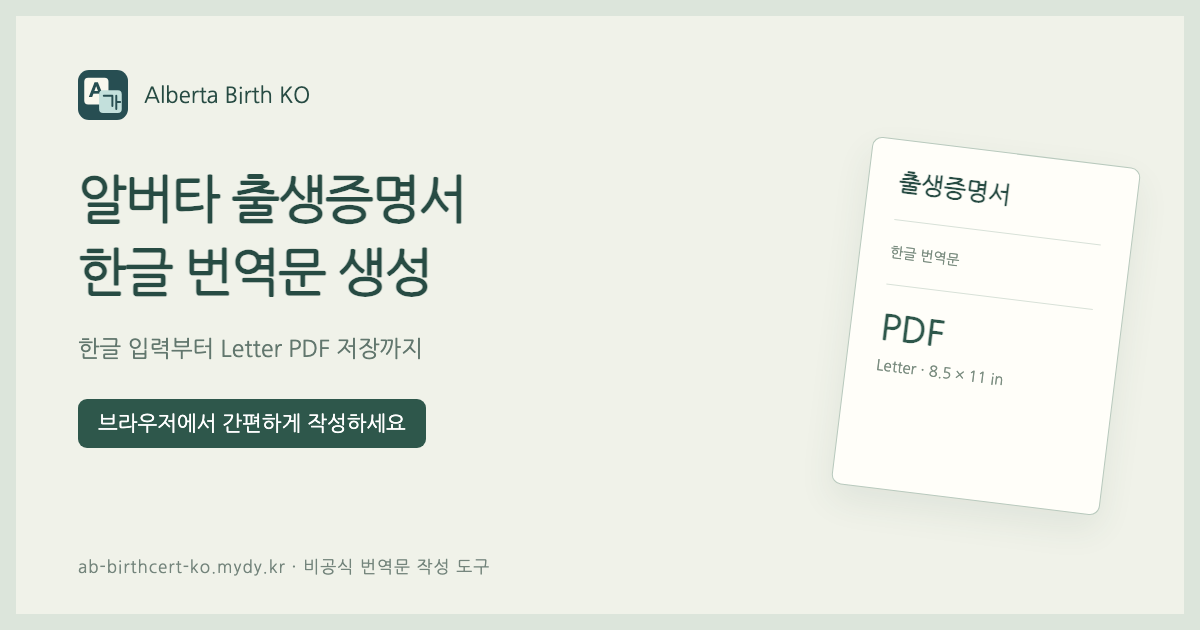
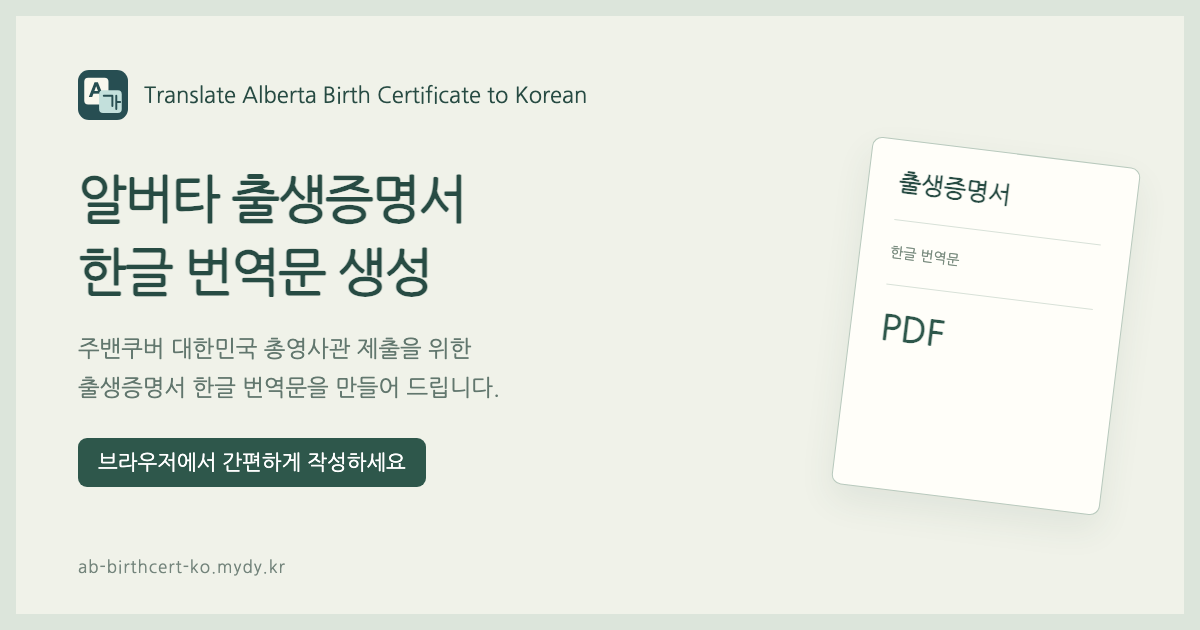
Update share thumbnail title and consulate submission copy

diff --git a/index.html b/index.html
@@ -19,12 +19,12 @@
   <meta property="og:image:type" content="image/png">
   <meta property="og:image:width" content="1200">
   <meta property="og:image:height" content="630">
-  <meta property="og:image:alt" content="알버타 출생증명서 한글 번역문 생성 — 한글 입력부터 Letter PDF 저장까지">
+  <meta property="og:image:alt" content="알버타 출생증명서 한글 번역문 생성 — 주밴쿠버 대한민국 총영사관 제출용">
   <meta name="twitter:card" content="summary_large_image">
   <meta name="twitter:title" content="알버타 출생증명서 한글 번역문 PDF 생성">
   <meta name="twitter:description" content="한글 입력부터 Letter PDF 저장까지. 알버타 출생증명서 번역문을 브라우저에서 작성하세요.">
   <meta name="twitter:image" content="https://ab-birthcert-ko.mydy.kr/og-image.png">
-  <meta name="twitter:image:alt" content="알버타 출생증명서 한글 번역문 생성 — 한글 입력부터 Letter PDF 저장까지">
+  <meta name="twitter:image:alt" content="알버타 출생증명서 한글 번역문 생성 — 주밴쿠버 대한민국 총영사관 제출용">
   <script type="application/ld+json">
   {"@context":"https://schema.org","@type":"WebApplication","name":"알버타 출생증명서 한글 번역문 생성","alternateName":"Alberta Birth KO","url":"https://ab-birthcert-ko.mydy.kr/","description":"캐나다 알버타 출생증명서의 한글 번역문을 작성하고 Letter PDF로 저장하는 비공식 웹 도구입니다.","applicationCategory":"UtilitiesApplication","operatingSystem":"Any","inLanguage":"ko","browserRequirements":"Requires JavaScript","image":"https://ab-birthcert-ko.mydy.kr/og-image.png","author":{"@type":"Person","name":"Daeyeol Ryu","url":"https://yoobato.com"}}
   </script>
